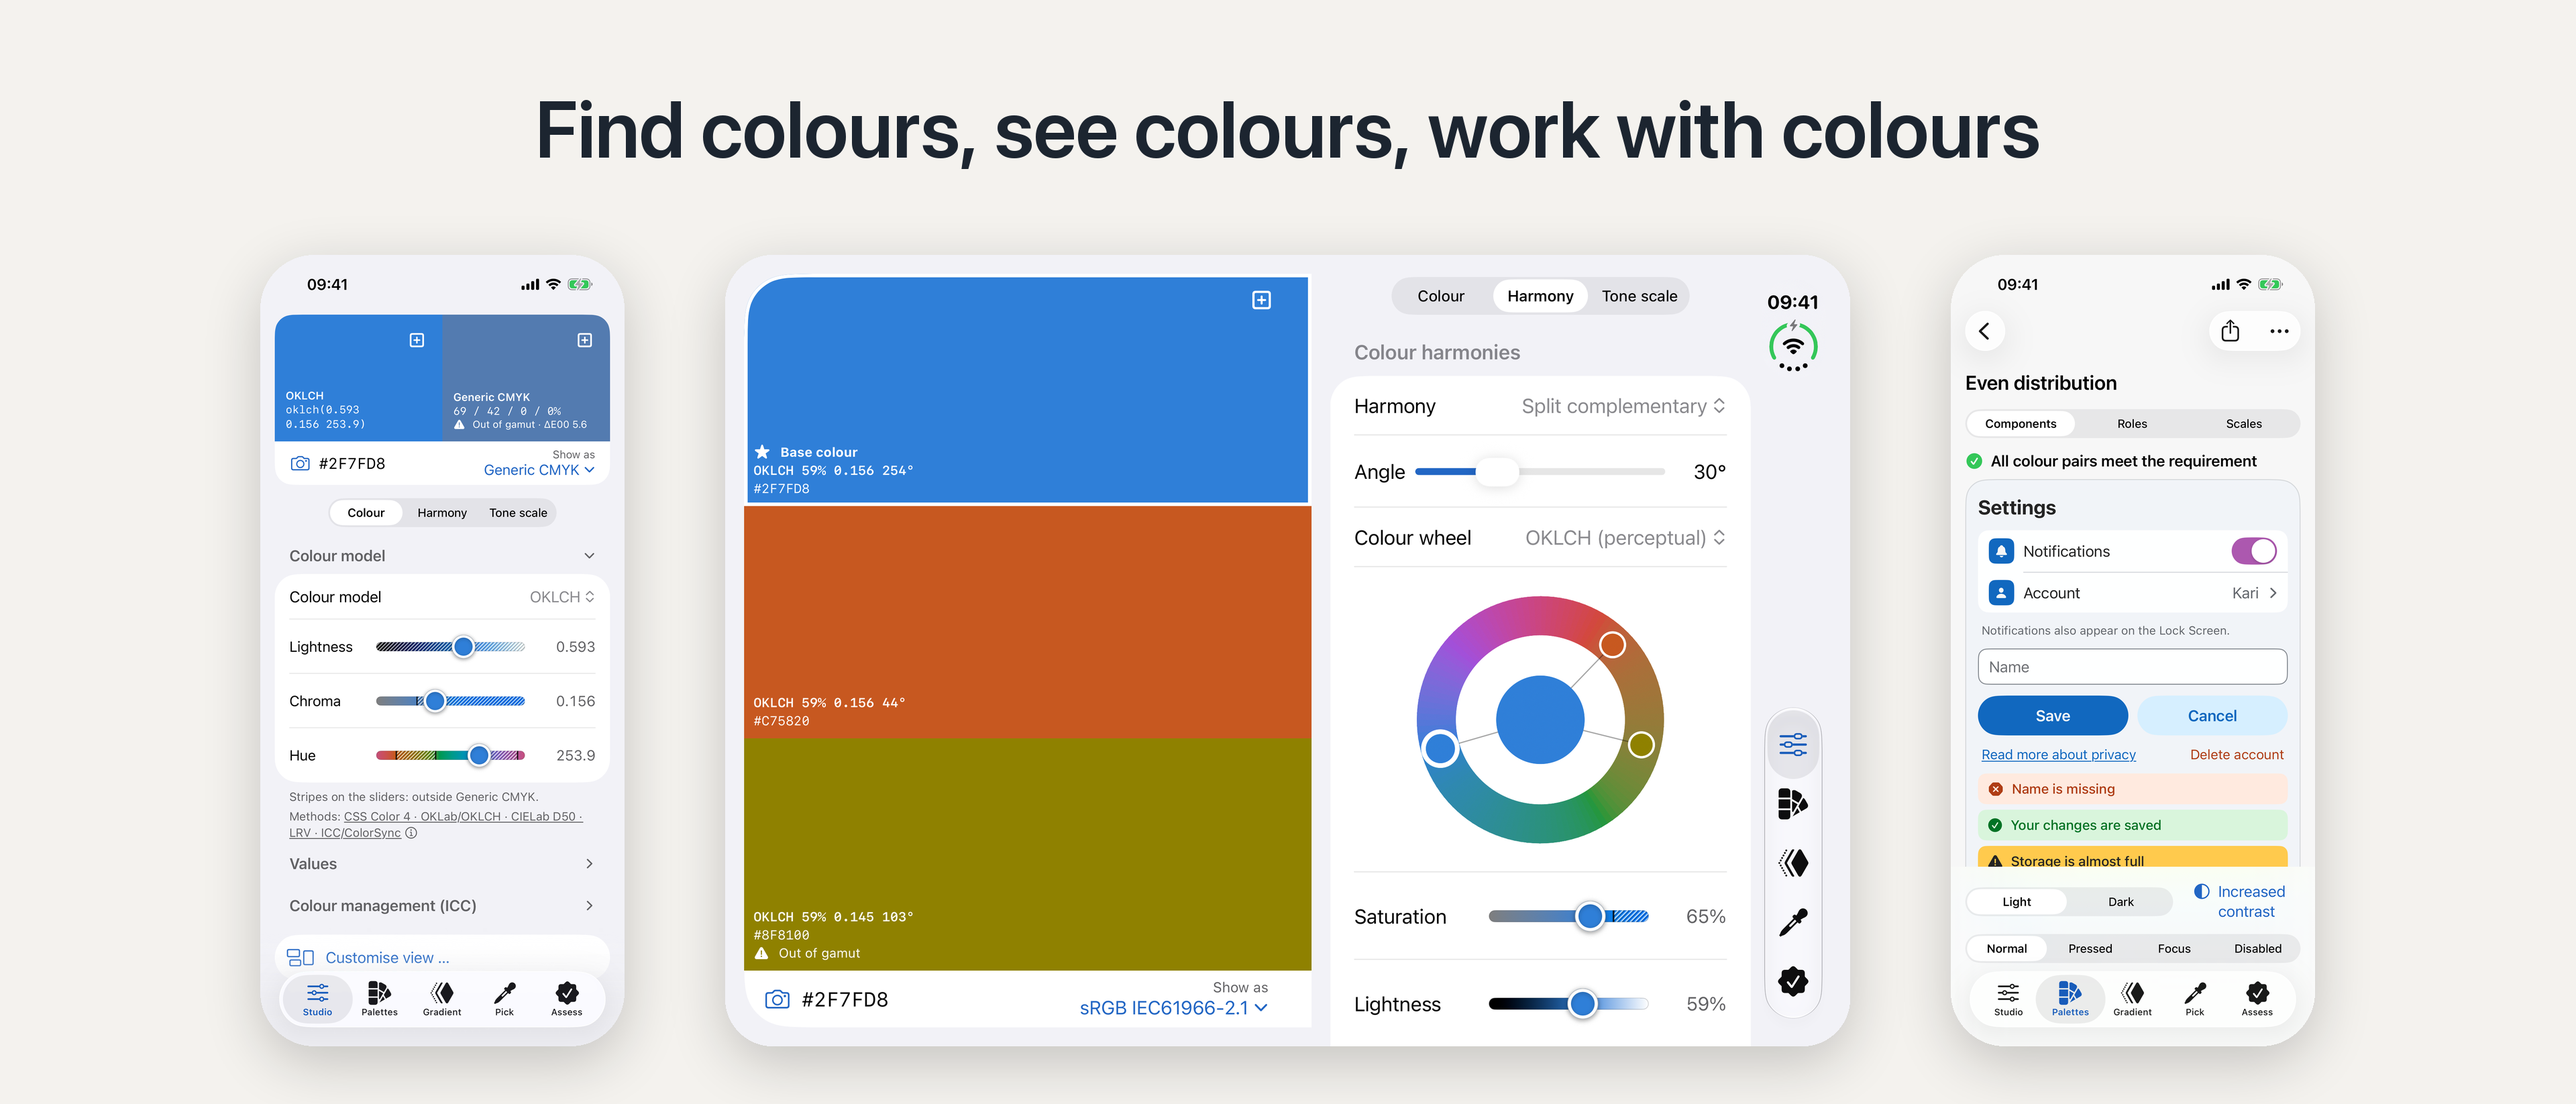
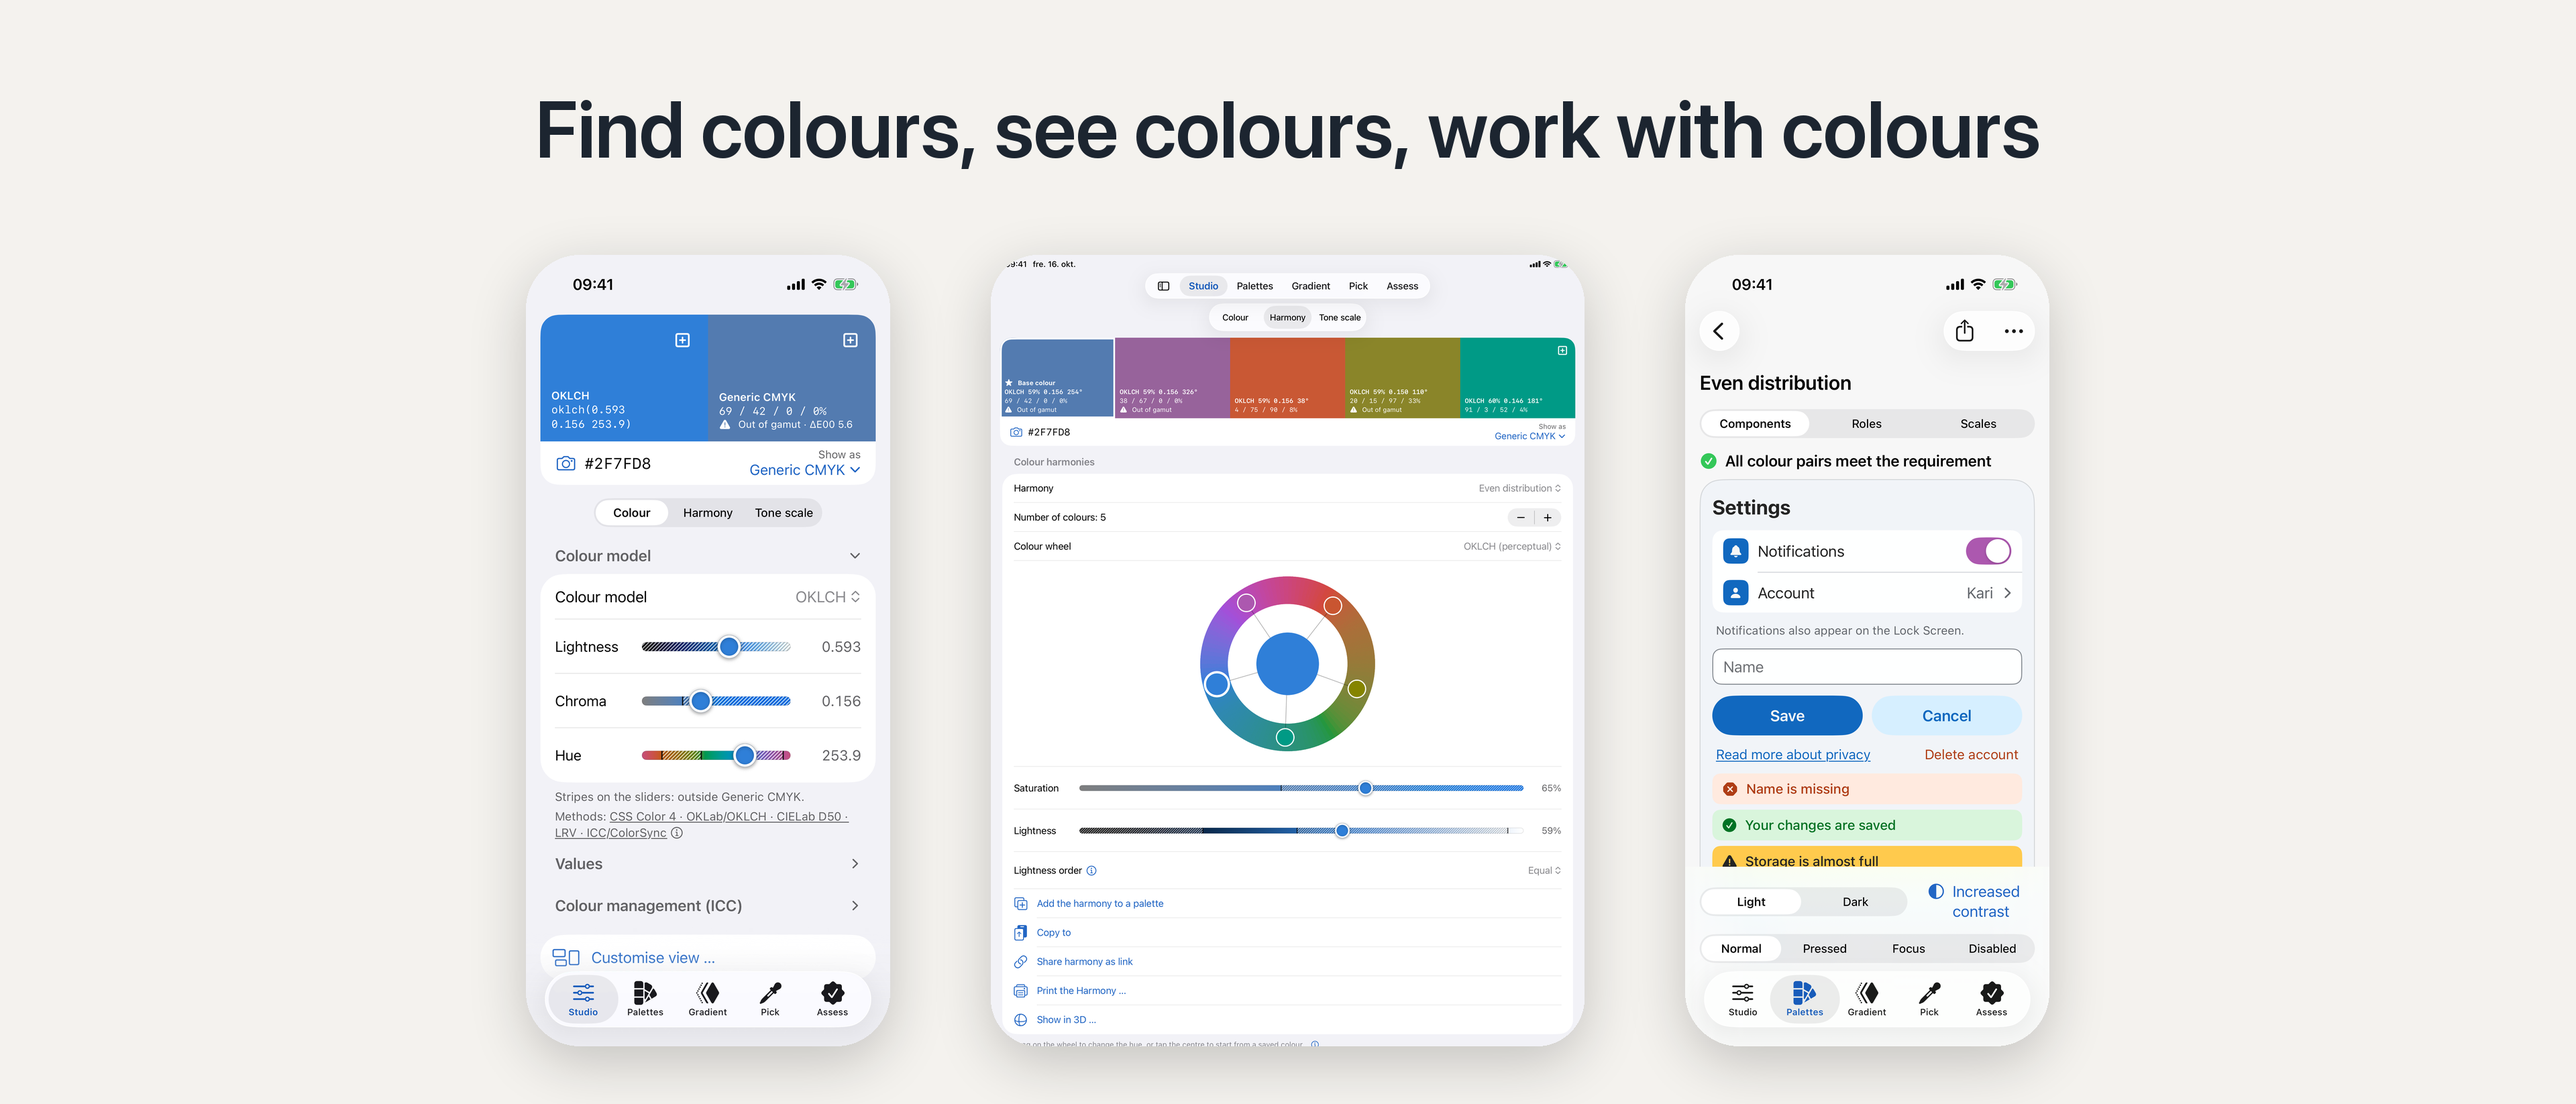
1.4 App Store: alle referanser til iPhone Duo fjernet etter avvisningen – tekster (iOS og Mac), App Review-notat, TestFlight, Duo-skjermbildene og headeren (Harmoni på iPad i midten)

Changed region(s): [[0.0938, 0.2479, 0.9062, 0.9605], [0.8438, 0.4957, 0.875, 0.5267], [0.125, 0.4957, 0.1562, 0.5267]]

diff --git a/Dokumentasjon/1.4/Skjermbilder/lag_header.py b/Dokumentasjon/1.4/Skjermbilder/lag_header.py
@@ -1,6 +1,6 @@
 from PIL import Image, ImageDraw, ImageFilter, ImageFont
-# Header (21:9, 3840 × 1646) for 1.4: finne, se og jobbe med farger – Studio (iPhone), Harmoni på åpen iPhone Duo og
-# designsystem (iPhone). Kilder: App Store-skjermbildene i iphone63-<språk>/ og iphoneduo-<språk>/, se AppStore.md.
+# Header (21:9, 3840 × 1646) for 1.4: finne, se og jobbe med farger – Studio (iPhone), Harmoni (iPad) og designsystem
+# (iPhone). Kilder: App Store-skjermbildene i iphone63-<språk>/ og ipad-<språk>/, se AppStore.md.
 S='skudd/'
 W,H=3840,1646
 BG=(244,242,238); TXT=(28,37,48)
@@ -18,7 +18,7 @@ for L in ['nb','en']:
     t=titler[L]; b=d.textbbox((0,0),t,font=font); d.text(((W-(b[2]-b[0]))/2-b[0],120),t,font=font,fill=TXT)
     h=1180; topp=380
     venstre=Image.open(f'iphone63-{L}/01-studio.png').convert('RGB')
-    duo=Image.open(f'iphoneduo-{L}/02-apen-studio-harmoni.png').convert('RGB')
+    duo=Image.open(f'ipad-{L}/02-harmoni.png').convert('RGB')
     høyre=Image.open(f'iphone63-{L}/05-designsystem.png').convert('RGB')
     tlf=lambda i: i.resize((round(i.width*h/i.height),h),Image.LANCZOS)
     venstre, høyre = tlf(venstre), tlf(høyre)

diff --git a/Dokumentasjon/1.4/AppStore.md b/Dokumentasjon/1.4/AppStore.md
@@ -30,19 +30,18 @@ Fargepaletter for designere
 **Reklametekst (170)**
 
 ```
-Se farger og fargerom i 3D, kontroller lesbarheten etter APCA og WCAG, og bruk begge skjermhalvdelene på iPhone Duo – fra palett til designsystem.
+Se farger og fargerom i 3D, kontroller lesbarheten etter APCA og WCAG, og del fargerapporter – fra palett til designsystem.
 ```
 
 **Nytt i denne versjonen (4000)**
 
 ```
-Kolorist 1.4 viser fargene i tre dimensjoner – og gir dem plass på iPhone Duo.
+Kolorist 1.4 viser fargene i tre dimensjoner.
 
 • Farger og fargerom i 3D: harmonier, paletter, overganger og fargebiblioteker som punkter i en fargekule, i OKLab eller i CIELab. Dra for å dreie og knip for å zoome.
-• Live 3D-visning av valgte farger: på iPad, iPhone Duo og Mac står 3D-visningen ved siden av verktøyene og følger fargene mens du justerer harmonier, overganger og paletter.
+• Live 3D-visning av valgte farger: på iPad i liggende format og på Mac står 3D-visningen ved siden av verktøyene og følger fargene mens du justerer harmonier, overganger og paletter.
 • Sammenlign fargerommene til ICC-profiler, velg tilpasningsmetode, og se hvor farger utenfor rommet havner.
 • Del 3D-visningen som 3D-modell, og se fargene i det fysiske rommet gjennom AR (utvidet virkelighet).
-• iPhone Duo: lukket står fargene i en stripe langs kanten. Åpnet får de hele venstre halvdel, og verktøyene står til høyre. På iPad i liggende format legger 3D-visningen seg ved siden av verktøyene.
 • Gamutgrenser i gliderne og i flaten for lyshet og metning – se hvor fargen havner utenfor fargerommet du har valgt.
 • Forvirringslinjer for fargesyn i et kromatisitetsdiagram, med de vanskelige fargeparene streket sammen.
 • Lesekontrast etter APCA i kontrastsjekken, med «Rett opp» til nivået – og tekst og ikoner på fargefelt i sort eller hvit etter opplevd lesbarhet.
@@ -96,9 +95,6 @@ LYS OG FARGEMÅLING
 • Se farger og hele paletter under egne og standardiserte betraktningsforhold
 • Mål lyset med kameraet, og kompenser farger du plukker med gråkort eller referansekort (beta)
 
-IPHONE DUO
-Lukket står fargene i en stripe langs kanten. Åpnet får fargene hele venstre halvdel, og verktøyene står til høyre.
-
 APPLE INTELLIGENCE PÅ ENHETEN (EKSPERIMENTELT)
 • Forslag til palett fra verdiord, forankret i en kunnskapsbase med over hundre fargebegreper
 Alt kjøres på enheten. Uten Apple Intelligence lages forslagene direkte fra kunnskapsbasen.
@@ -118,17 +114,17 @@ Appen viser metodene den bygger på – OKLab, CIEDE2000, CAM16, WCAG, APCA, LRV
 PERSONVERN
 Ingen konto, ingen analyse, ingen reklame og ingen sporing. Utvikleren samler ikke inn data.
 
-Krever iOS 26, iPadOS 26 eller macOS 26; iPhone Duo krever iOS 27.1. Apple Intelligence krever en støttet enhet.
+Krever iOS 26, iPadOS 26 eller macOS 26. Apple Intelligence krever en støttet enhet.
 ```
 
-**Nøkkelord (100)** – nye for 1.4 (fargerom, 3D og APCA inn; interiør og harmoni ut). «iPhone Duo» brukes ikke: Apple
-fraråder produktnavn og varemerker i nøkkelordene.
+**Nøkkelord (100)** – nye for 1.4 (fargerom, 3D og APCA inn; interiør og harmoni ut). Produktnavn og varemerker brukes
+ikke: Apple fraråder dem i nøkkelordene.
 
 ```
 farge,fargevelger,kontrast,fargerom,3D,APCA,WCAG,LRV,universell utforming,arkitekt,designsystem,ICC
 ```
 
-**Skjermbilder:** `Dokumentasjon/1.4/Skjermbilder/iphone63-nb/` (iPhone 6,3″), `ipad-nb/` (iPad 13″) og `iphoneduo-nb/` (iPhone Duo), 01–10 i opplastingsrekkefølge.
+**Skjermbilder:** `Dokumentasjon/1.4/Skjermbilder/iphone63-nb/` (iPhone 6,3″) og `ipad-nb/` (iPad 13″), 01–10 i opplastingsrekkefølge.
 
 ---
 
@@ -143,19 +139,18 @@ Colour palettes for designers
 **Promotional text (170)**
 
 ```
-See colours and colour spaces in 3D, check readability by APCA and WCAG, and use both halves of iPhone Duo – from palette to design system.
+See colours and colour spaces in 3D, check readability by APCA and WCAG, and share colour reports – from palette to design system.
 ```
 
 **What’s New in This Version (4000)**
 
 ```
-Kolorist 1.4 shows your colours in three dimensions – and gives them room on iPhone Duo.
+Kolorist 1.4 shows your colours in three dimensions.
 
 • Colours and colour spaces in 3D: harmonies, palettes, gradients and colour libraries as points in a colour sphere, in OKLab or in CIELab. Drag to rotate and pinch to zoom.
-• Live 3D view of the selected colours: on iPad, iPhone Duo and Mac, the 3D view sits next to the tools and follows the colours as you adjust harmonies, gradients and palettes.
+• Live 3D view of the selected colours: on iPad in landscape and on the Mac, the 3D view sits next to the tools and follows the colours as you adjust harmonies, gradients and palettes.
 • Compare the colour spaces of ICC profiles, choose a rendering intent, and see where colours outside the space end up.
 • Share the 3D view as a 3D model, and see the colours in your physical surroundings through AR (augmented reality).
-• iPhone Duo: closed, the colours sit in a strip along the edge. Open, they fill the whole left half, and the tools sit on the right. On iPad in landscape, the 3D view sits next to the tools.
 • Gamut limits on the sliders and in the lightness and saturation field – see where the colour falls outside the colour space you have chosen.
 • Confusion lines for colour vision in a chromaticity diagram, with the hard-to-tell-apart colour pairs joined.
 • Reading contrast by APCA in the contrast check, with auto-fix to the level – and text and icons on colour fields in black or white by perceived readability.
@@ -209,9 +204,6 @@ LIGHT AND COLOUR MEASUREMENT
 • See colours and whole palettes in your own and standard viewing conditions
 • Measure the light with the camera, and compensate the colours you pick with a grey card or reference card (beta)
 
-IPHONE DUO
-Closed, the colours sit in a strip along the edge. Open, they fill the whole left half, and the tools sit on the right.
-
 APPLE INTELLIGENCE ON DEVICE (EXPERIMENTAL)
 • Suggested palettes from value words, grounded in a knowledge base of more than a hundred colour concepts
 Everything runs on device. Without Apple Intelligence, the suggestions are built straight from the knowledge base.
@@ -231,7 +223,7 @@ The app shows the methods it builds on, from OKLab and CIEDE2000 to WCAG and APC
 PRIVACY
 No account, no analytics, no ads and no tracking. The developer collects no data.
 
-Requires iOS 26, iPadOS 26 or macOS 26; iPhone Duo requires iOS 27.1. Apple Intelligence requires a supported device.
+Requires iOS 26, iPadOS 26 or macOS 26. Apple Intelligence requires a supported device.
 ```
 
 **Keywords (100)** – new for 1.4 (color space, 3D, APCA and gamut in; interior, harmony and palette out – «palette» is
@@ -241,7 +233,7 @@ already in the subtitle).
 color,picker,contrast,color space,3D,APCA,WCAG,LRV,gamut,accessibility,architect,design system,ICC
 ```
 
-**Screenshots:** `Dokumentasjon/1.4/Skjermbilder/iphone63-en/` (iPhone 6.3″), `ipad-en/` (iPad 13″) and `iphoneduo-en/` (iPhone Duo), 01–10 in upload order.
+**Screenshots:** `Dokumentasjon/1.4/Skjermbilder/iphone63-en/` (iPhone 6.3″) and `ipad-en/` (iPad 13″), 01–10 in upload order.
 
 ---
 
@@ -470,19 +462,11 @@ color,picker,contrast,color space,3D,APCA,WCAG,LRV,gamut,accessibility,architect
 ```
 Thank you for reviewing Kolorist 1.4, a colour palette tool for designers and architects on iPhone, iPad and Mac (one universal purchase).
 
-NEW: BUILT FOR IPHONE DUO
-Kolorist 1.4 adds tailored support for iPhone Duo (iOS 27.1). We would be grateful if you could look at it on iPhone Duo:
-• Closed: the large colour swatches become a colour strip along the left edge; colour input (text and background, colours A and B) moves to the top, and the rest of the app works as on other iPhones.
-• Open (partly or fully, landscape): the colour card fills the left half and continues across the fold; the tabs and tools work as on iPhone on the right half. Unfolding animates the colours out from the fold.
-• Studio › Harmony › Show in 3D …: on an open iPhone Duo the 3D view sits in the left half and updates live while the harmony is adjusted on the right.
-• Open and upright, the app uses the iPhone layout with more room.
-It uses the hinge (onHingeChange) and the fold (reserved division region) and has been tested in the iPhone Duo simulator closed, partly open and fully open, with every tab. On other devices nothing changes.
-
 NO ACCOUNT NEEDED
 No account, no server of our own, no analytics, ads or in-app purchases. Data syncs through the user's private iCloud when signed in; otherwise everything stays on device.
 
-ALSO NEW IN 1.4 – HOW TO TEST
-• 3D: Studio › Harmony › Show in 3D … (also from a palette's menu, and Show as › Show the colour space in 3D …). Drag to rotate, pinch to zoom. The share button exports a USDZ model; on iPhone and iPad the AR button opens AR Quick Look. On iPad in landscape, on an open iPhone Duo and in a wide Mac window, the 3D view replaces the colour card on the left and updates live as the harmony, gradient or palette is adjusted.
+NEW IN 1.4 – HOW TO TEST
+• 3D: Studio › Harmony › Show in 3D … (also from a palette's menu, and Show as › Show the colour space in 3D …). Drag to rotate, pinch to zoom. The share button exports a USDZ model; on iPhone and iPad the AR button opens AR Quick Look. On iPad in landscape and in a wide Mac window, the 3D view replaces the colour card on the left and updates live as the harmony, gradient or palette is adjusted.
 • Gamut limits: Studio › Show as › choose e.g. Generic CMYK; the sliders are striped where the colour falls outside.
 • Confusion lines: Assess › Colour vision, scroll to the chromaticity diagram.
 • APCA: Assess › Contrast › APCA. APCA is used with permission from its copyright holder, Myndex Research (Andrew Somers).
@@ -512,7 +496,6 @@ Takk for at du tester Kolorist 1.4! Prøv gjerne dette:
 • Fargesyn: forvirringslinjene i kromatisitetsdiagrammet.
 • Kontrast med APCA, og fargerapporter du kan kopiere, dele og skrive ut.
 • Menyene på farger, paletter og gradienter (trykk og hold / høyreklikk).
-• Har du iPhone Duo: lukket og åpen, også mens du bretter.
 
 Gi tilbakemelding med skjermbilde via TestFlight, eller til eivind.johansen@ntnu.no.
 ```
@@ -528,22 +511,23 @@ toneskala, designsystem, overgang, kontrast med APCA, flatekontrast, fargesyn me
 | `iphone63-nb/`, `iphone63-en/` | iPhone 6,1″/6,3″ (simulator «Skjermbilder 6,3») | 1206 × 2622 |
 | `ipad-nb/`, `ipad-en/` | iPad 13″, stående (simulator «Skjermbilder iPad 13») – 3D som ark | 2064 × 2752 |
 | `mac-nb/`, `mac-en/` | Mac (vindu 1440 × 900 pt, `-skjermbildevindu YES`) – 3D i venstre halvdel | 2880 × 1800 |
-| `iphoneduo-nb/`, `iphoneduo-en/` | iPhone Duo (simulator, Device Hub) – eget utvalg, se under | åpen 2853 × 2007, høyde 2007 × 2853, lukket 1398 × 2034 |
 
 Felles argumenter som i 1.3 (`-skjermbilde YES -visOgsåProfil kCGColorSpaceGenericCMYK -harmoniAntall 5 -harmoniSirkel
 okLCH -harmoniLyshetsrekkefølge lik`), og for hvert bilde: 3D `-studioModus harmoni -harmoni tonebane -vis3D tonebane`;
 kontrast `-kontrastType apca`; fargesyn `-rullTil forvirringslinjer`; resten som i 1.3 med `-harmoni jevn`. Mac med
-signert Debug-bygg (skjermbildemodus bruker en database i minnet uten iCloud). iPhone Duo har eget utvalg i full oppløsning
-(de samme skuddene som til nettsiden, `web/1.4/assets/duo/`, uten alfakanal): 01 farge, 02 harmoni, 03 harmoni i høydeformat,
-04 3D med tonebanen, 05 toneskala, 06 overgang, 07 overgang lukket, 08 kontrast, 09 fargesyn, 10 lys (resten åpen, liggende).
+signert Debug-bygg (skjermbildemodus bruker en database i minnet uten iCloud).
+
+**Ingen iPhone Duo i App Store-materialet:** 1.4 ble avvist i App Review (2026-10-16) på grunn av referansene til iPhone
+Duo. Tekstene, App Review-notatet, skjermbildene og headeren nevner eller viser derfor ikke Duo (Duo-skjermbildene er tatt
+ut; slett dem også i App Store Connect).
 
 ### Header og søkeresultat (iOS 27 / iPadOS 27)
 
 `Dokumentasjon/1.4/Skjermbilder/`: `header-nb.png` / `header-en.png` (produktsidens header, 21:9, 3840 × 1646) og
 `sokeresultat-nb.png` / `sokeresultat-en.png` (søkeresultat, 3:2, 3840 × 2560), med tittelen «Finn farger, se farger,
 jobb med farger» / «Find colours, see colours, work with colours» (SF, halvfet) – det primære er å finne, se og jobbe med
-farger, med 3D som ett av flere verktøy. Headeren viser Studio (iPhone, `01-studio`), Harmoni på åpen iPhone Duo
-(`02-apen-studio-harmoni`) og designsystem (iPhone, `05-designsystem`); søkeresultatet tonebanen i Harmoni, fargesyn med
+farger, med 3D som ett av flere verktøy. Headeren viser Studio (iPhone, `01-studio`), Harmoni (iPad, `02-harmoni`)
+og designsystem (iPhone, `05-designsystem`); søkeresultatet tonebanen i Harmoni, fargesyn med
 forvirringslinjer (`09-fargesyn`) og tonebanen på kula. Lages på nytt med `lag_header.py` og `lag_sokeresultat.py` fra
 App Store-skjermbildene og `skudd/` (simulatoren «Skjermbilder 6,3»: `-studioModus harmoni -harmoni tonebane [-vis3D tonebane]`).
 
@@ -551,7 +535,7 @@ App Store-skjermbildene og `skudd/` (simulatoren «Skjermbilder 6,3»: `-studioM
 
 - [x] Datamodellen er uendret siden 1.3.2 – CloudKit-skjemaet trenger ikke publiseres.
 - [ ] Ny versjon 1.4 opprettet for iOS og macOS, med tekstene over.
-- [ ] Skjermbilder lastet opp (iPhone, iPhone Duo, iPad og Mac, norsk og engelsk).
+- [ ] Skjermbilder lastet opp (iPhone, iPad og Mac, norsk og engelsk) – ingen for iPhone Duo.
 - [ ] Notes for App Review byttet til teksten over.
 - [ ] 1.4-nettsiden publisert på kolorist.no (1.3 til `historisk/1.3/`).
 - [ ] `CURRENT_PROJECT_VERSION` økt for opplastingen.
